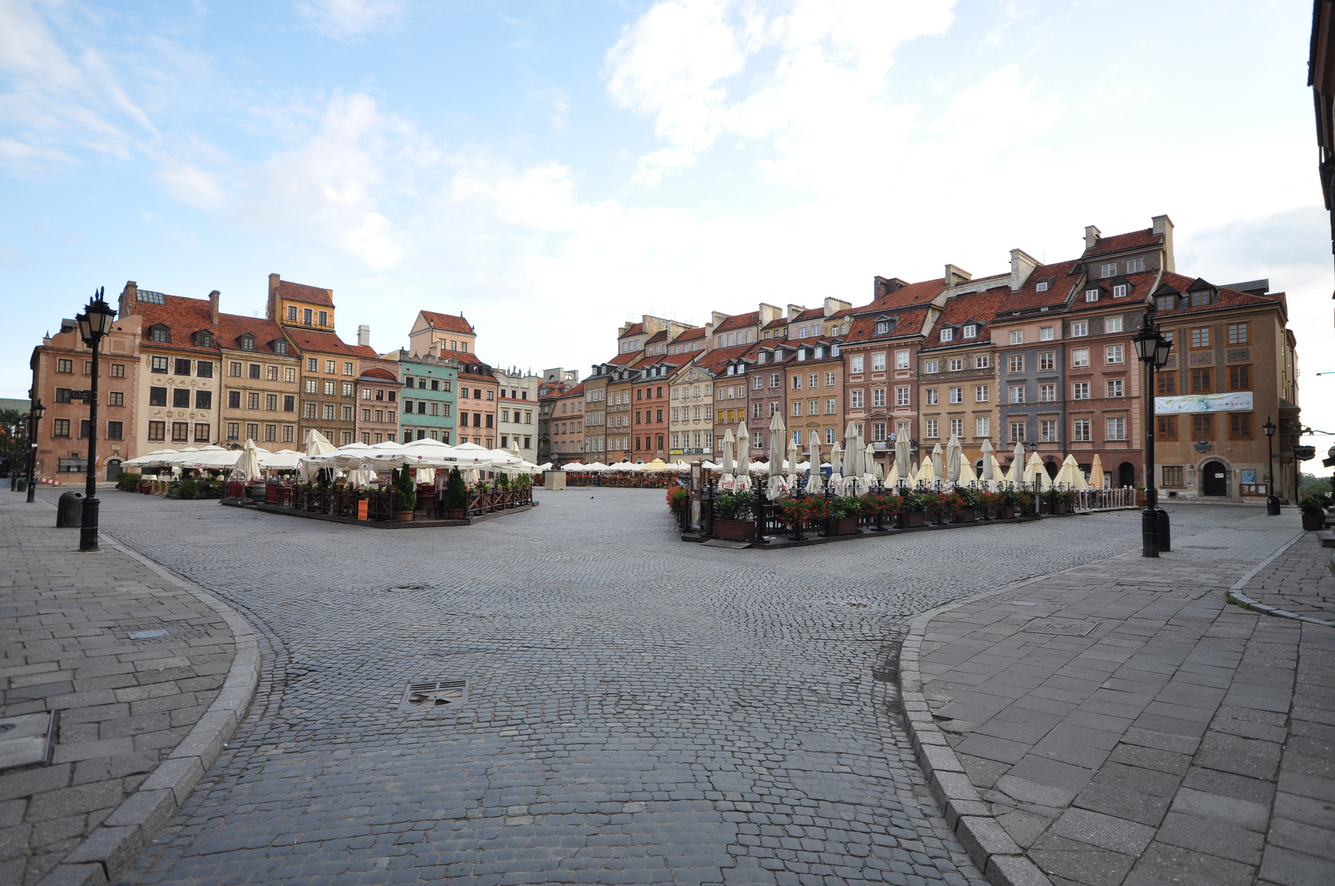
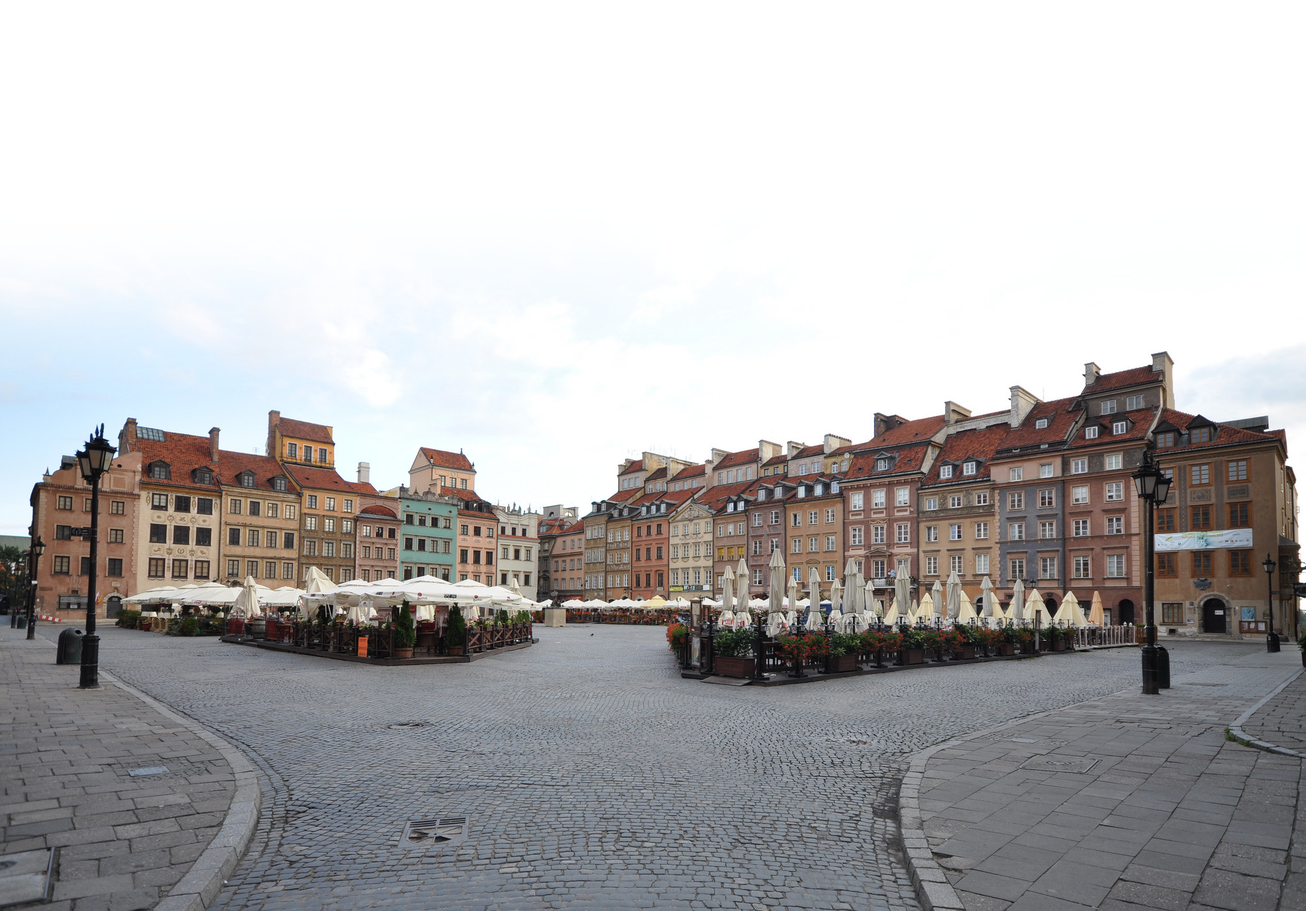
Compress background.

diff --git a/css/style.css b/css/style.css
@@ -2,7 +2,7 @@ body {
   margin: 0;
   padding: 0;
   /* https://www.flickr.com/photos/jlascar/9629592803 */
-  background: url(../img/background.png) no-repeat;
+  background: url(../img/background.jpg) no-repeat;
   background-size: cover;
   background-attachment: fixed;
   background-position: center center;
